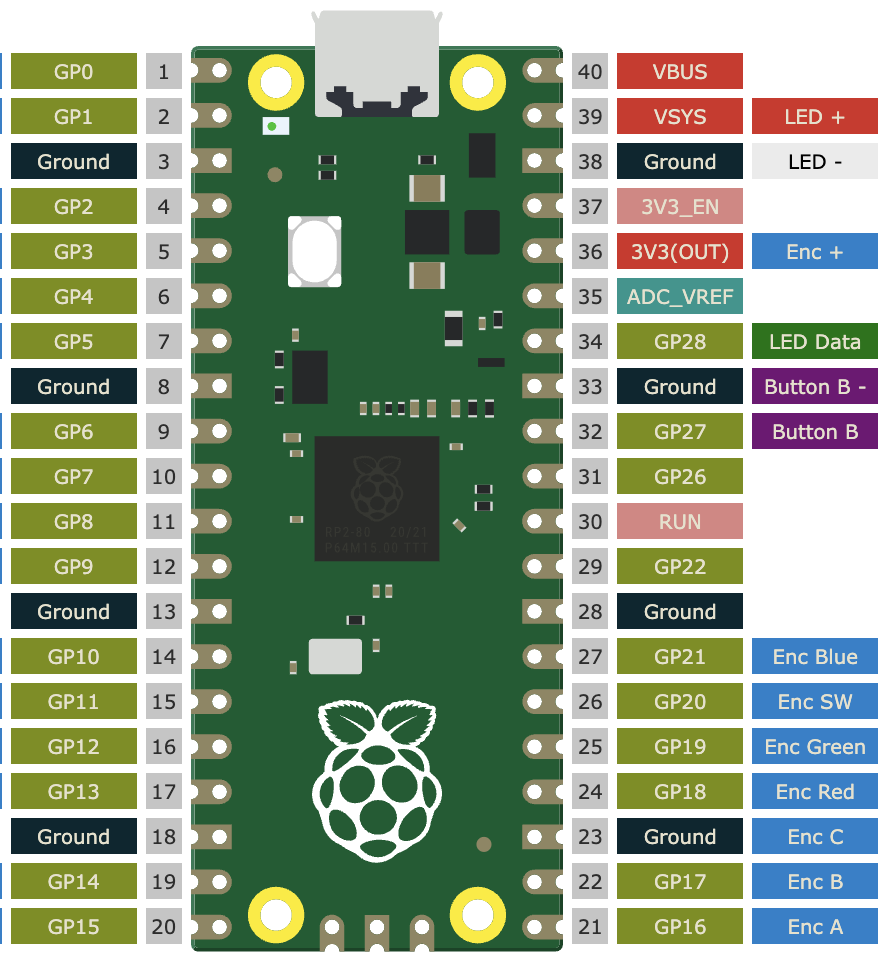
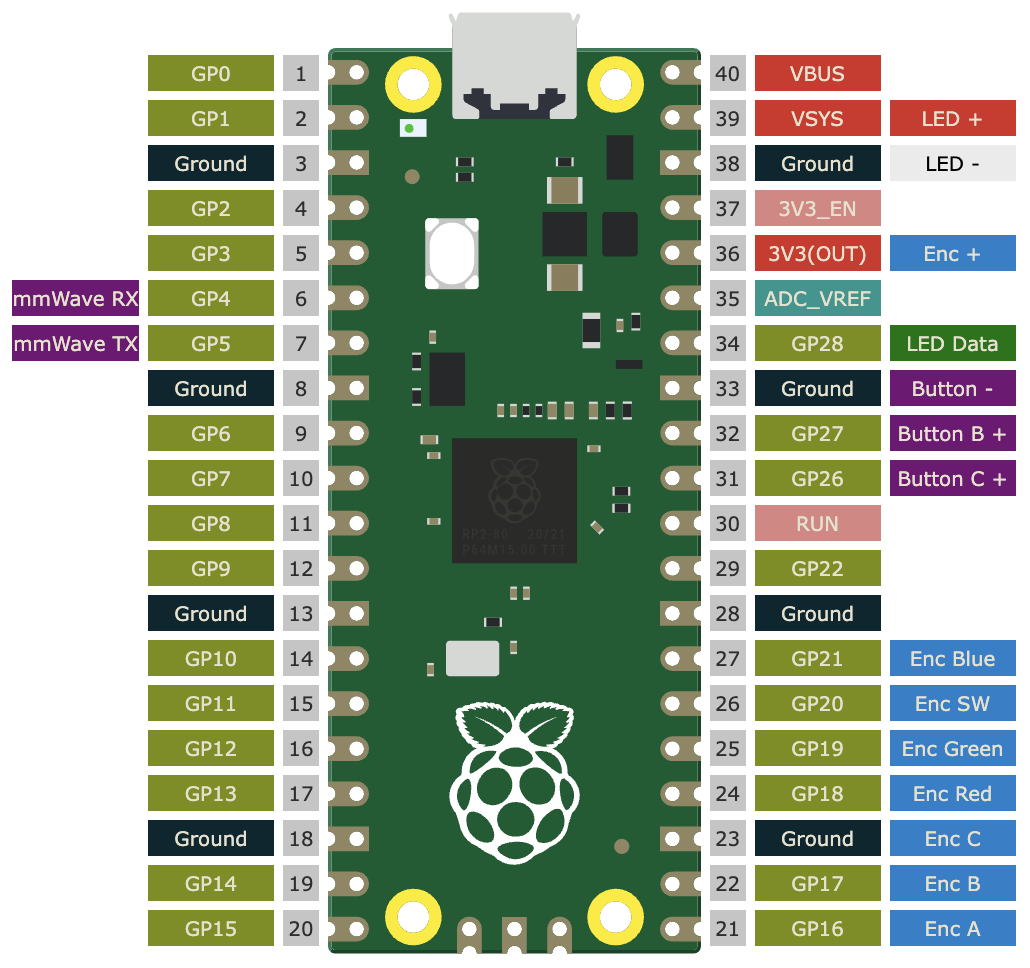
mmWave presence detection with UART

diff --git a/doc/_pinout.html b/doc/_pinout.html
@@ -1,26 +1,28 @@
 <!-- this is from pico.pinout.xyz and meant to generate updated pinouts later on. -->
 <article class="pinout hidden-spi hidden-uart hidden-adc hidden-pwm" id="pinout">
     <table aria-label="Left-hand pins" class="labels left" aria-rowcount="20" cellpadding="0" cellspacing="5">
-        <tbody><tr aria-label="First pin."><td class="gpio">GP0</td> <td class="spi hidden" title="SPI 0: Host-receive">SPI0 RX</td> <td class="i2c" title="I2C 0: Data">I2C0 SDA</td> <td class="uart default hidden" title="UART 0: Transmit">UART0 TX</td> <td class="pwm hidden advanced" title="PWM 0: Channel A">PWM0 A</td></tr>
-        <tr aria-label="Second pin."><td class="gpio">GP1</td> <td class="spi hidden" title="SPI 0: Chip-select">SPI0 CSn</td> <td class="i2c" title="I2C 0: Clock">I2C0 SCL</td> <td class="uart default hidden" title="UART 0: Receive">UART0 RX</td> <td class="pwm hidden advanced" title="PWM 0: Channel B">PWM0 B</td></tr>
+        <tbody><tr aria-label="First pin."><td class="gpio">GP0</td> <td class="spi hidden" title="SPI 0: Host-receive">SPI0 RX</td> <td class="i2c hidden" title="I2C 0: Data">I2C0 SDA</td> <td class="uart default hidden" title="UART 0: Transmit">UART0 TX</td> <td class="pwm hidden advanced" title="PWM 0: Channel A">PWM0 A</td></tr>
+        <tr aria-label="Second pin."><td class="gpio">GP1</td> <td class="spi hidden" title="SPI 0: Chip-select">SPI0 CSn</td> <td class="i2c hidden" title="I2C 0: Clock">I2C0 SCL</td> <td class="uart default hidden" title="UART 0: Receive">UART0 RX</td> <td class="pwm hidden advanced" title="PWM 0: Channel B">PWM0 B</td></tr>
         <tr aria-label="Third pin."><td class="ground" title="Ground">Ground</td></tr>
-        <tr aria-label="Forth pin."><td class="gpio">GP2</td> <td class="spi hidden" title="SPI 0: Clock">SPI0 SCK</td> <td class="i2c" title="I2C 1: Data">I2C1 SDA</td> <td class="uart hidden advanced" title="UART 0: Clear to send">UART0 CTS</td> <td class="pwm hidden advanced" title="PWM 1: Channel A">PWM1 A</td></tr>
-        <tr aria-label="Fifth pin."><td class="gpio">GP3</td> <td class="spi hidden" title="SPI 0: Host-transmit">SPI0 TX</td> <td class="i2c" title="I2C 1: Clock">I2C1 SCL</td> <td class="uart hidden advanced" title="UART 0: Request to send">UART0 RTS</td> <td class="pwm hidden advanced" title="PWM 1: Channel B">PWM1 B</td></tr>
-        <tr aria-label="Sixth pin."><td class="gpio">GP4</td> <td class="spi hidden" title="SPI 0: Host-receive">SPI0 RX</td> <td class="i2c" title="I2C 0: Data">I2C0 SDA</td> <td class="uart hidden" title="UART 1: Transmit">UART1 TX</td> <td class="pwm hidden advanced" title="PWM 2: Channel A">PWM2 A</td></tr>
-        <tr aria-label="Seventh pin."><td class="gpio">GP5</td> <td class="spi hidden" title="SPI 0: Chip-select">SPI0 CSn</td> <td class="i2c" title="I2C 0: Clock">I2C0 SCL</td> <td class="uart hidden" title="UART 1: Receive">UART1 RX</td> <td class="pwm hidden advanced" title="PWM 2: Channel B">PWM2 B</td></tr>
+        <tr aria-label="Forth pin."><td class="gpio">GP2</td> <td class="spi hidden" title="SPI 0: Clock">SPI0 SCK</td> <td class="i2c hidden" title="I2C 1: Data">I2C1 SDA</td> <td class="uart hidden advanced" title="UART 0: Clear to send">UART0 CTS</td> <td class="pwm hidden advanced" title="PWM 1: Channel A">PWM1 A</td></tr>
+        <tr aria-label="Fifth pin."><td class="gpio">GP3</td> <td class="spi hidden" title="SPI 0: Host-transmit">SPI0 TX</td> <td class="i2c hidden" title="I2C 1: Clock">I2C1 SCL</td> <td class="uart hidden advanced" title="UART 0: Request to send">UART0 RTS</td> <td class="pwm hidden advanced" title="PWM 1: Channel B">PWM1 B</td></tr>
+        <tr aria-label="Sixth pin."><td class="gpio">GP4</td> <td class="spi hidden" title="SPI 0: Host-receive">SPI0 RX</td> <td class="i2c" title="I2C 0: Data" style="
+    background-color: purple;
+">mmWave RX</td> <td class="uart hidden" title="UART 1: Transmit">UART1 TX</td> <td class="pwm hidden advanced" title="PWM 2: Channel A">PWM2 A</td></tr>
+        <tr aria-label="Seventh pin."><td class="gpio">GP5</td> <td class="spi hidden" title="SPI 0: Chip-select">SPI0 CSn</td> <td class="i2c" title="I2C 0: Clock" style="background-color:purple;">mmWave TX</td> <td class="uart hidden" title="UART 1: Receive">UART1 RX</td> <td class="pwm hidden advanced" title="PWM 2: Channel B">PWM2 B</td></tr>
         <tr aria-label="Eighth pin."><td class="ground" title="Ground">Ground</td></tr>
-        <tr aria-label="Ninth pin."><td class="gpio">GP6</td> <td class="spi hidden" title="SPI 0: Clock">SPI0 SCK</td> <td class="i2c" title="I2C 1: Data">I2C1 SDA</td> <td class="uart hidden advanced" title="UART 1: Clear to send">UART1 CTS</td> <td class="pwm hidden advanced" title="PWM 3: Channel A">PWM3 A</td></tr>
-        <tr aria-label="Tenth pin."><td class="gpio">GP7</td> <td class="spi hidden" title="SPI 1: Host-transmit">SPI0 TX</td> <td class="i2c" title="I2C 1: Clock">I2C1 SCL</td> <td class="uart hidden advanced" title="UART 1: Request to send">UART1 RTS</td> <td class="pwm hidden advanced" title="PWM 3: Channel B">PWM3 B</td></tr>
-        <tr aria-label="Eleventh pin."><td class="gpio">GP8</td> <td class="spi hidden" title="SPI 1: Host-receive">SPI1 RX</td> <td class="i2c" title="I2C 0: Data">I2C0 SDA</td> <td class="uart hidden" title="UART 1: Transmit">UART1 TX</td> <td class="pwm hidden advanced" title="PWM 4: Channel A">PWM4 A</td></tr>
-        <tr aria-label="Twelveth pin."><td class="gpio">GP9</td> <td class="spi hidden" title="SPI 1: Chip-select">SPI1 CSn</td> <td class="i2c" title="I2C 0: Clock">I2C0 SCL</td> <td class="uart hidden" title="UART 1: Receive">UART1 RX</td> <td class="pwm hidden advanced" title="PWM 4: Channel B">PWM4 B</td></tr>
+        <tr aria-label="Ninth pin."><td class="gpio">GP6</td> <td class="spi hidden" title="SPI 0: Clock">SPI0 SCK</td> <td class="i2c hidden" title="I2C 1: Data">I2C1 SDA</td> <td class="uart hidden advanced" title="UART 1: Clear to send">UART1 CTS</td> <td class="pwm hidden advanced" title="PWM 3: Channel A">PWM3 A</td></tr>
+        <tr aria-label="Tenth pin."><td class="gpio">GP7</td> <td class="spi hidden" title="SPI 1: Host-transmit">SPI0 TX</td> <td class="i2c hidden" title="I2C 1: Clock">I2C1 SCL</td> <td class="uart hidden advanced" title="UART 1: Request to send">UART1 RTS</td> <td class="pwm hidden advanced" title="PWM 3: Channel B">PWM3 B</td></tr>
+        <tr aria-label="Eleventh pin."><td class="gpio">GP8</td> <td class="spi hidden" title="SPI 1: Host-receive">SPI1 RX</td> <td class="i2c hidden" title="I2C 0: Data">I2C0 SDA</td> <td class="uart hidden" title="UART 1: Transmit">UART1 TX</td> <td class="pwm hidden advanced" title="PWM 4: Channel A">PWM4 A</td></tr>
+        <tr aria-label="Twelveth pin."><td class="gpio">GP9</td> <td class="spi hidden" title="SPI 1: Chip-select">SPI1 CSn</td> <td class="i2c hidden" title="I2C 0: Clock">I2C0 SCL</td> <td class="uart hidden" title="UART 1: Receive">UART1 RX</td> <td class="pwm hidden advanced" title="PWM 4: Channel B">PWM4 B</td></tr>
         <tr aria-label="Thirtheenth pin."><td class="ground" title="Ground">Ground</td></tr>
-        <tr aria-label="Fourteenth pin."><td class="gpio">GP10</td> <td class="spi hidden" title="SPI 1: Clock">SPI1 SCK</td> <td class="i2c" title="I2C 1: Data">I2C1 SDA</td> <td class="uart hidden advanced" title="UART 1: Clear to send">UART1 CTS</td> <td class="pwm hidden advanced" title="PWM 5: Channel A">PWM5 A</td></tr>
-        <tr aria-label="Fifteenth pin."><td class="gpio">GP11</td> <td class="spi hidden" title="SPI 1: Host-transmit">SPI1 TX</td> <td class="i2c" title="I2C 1: Clock">I2C1 SCL</td> <td class="uart hidden advanced" title="UART 1: Request to send">UART1 RTS</td>  <td class="pwm hidden advanced" title="PWM 5: Channel B">PWM5 B</td></tr>
-        <tr aria-label="Sixteenth pin."><td class="gpio">GP12</td> <td class="spi hidden" title="SPI 1: Host-receive">SPI1 RX</td> <td class="i2c" title="I2C 0: Data">I2C0 SDA</td> <td class="uart hidden" title="UART 0: Transmit">UART0 TX</td> <td class="pwm hidden advanced" title="PWM 6: Channel A">PWM6 A</td></tr>
-        <tr aria-label="Seventeenth pin."><td class="gpio">GP13</td> <td class="spi hidden" title="SPI 1: Chip-select">SPI1 CSn</td> <td class="i2c" title="I2C 0: Clock">I2C0 SCL</td> <td class="uart hidden" title="UART 0: Receive">UART0 RX</td> <td class="pwm hidden advanced" title="PWM 6: Channel B">PWM6 B</td></tr>
+        <tr aria-label="Fourteenth pin."><td class="gpio">GP10</td> <td class="spi hidden" title="SPI 1: Clock">SPI1 SCK</td> <td class="i2c hidden" title="I2C 1: Data">I2C1 SDA</td> <td class="uart hidden advanced" title="UART 1: Clear to send">UART1 CTS</td> <td class="pwm hidden advanced" title="PWM 5: Channel A">PWM5 A</td></tr>
+        <tr aria-label="Fifteenth pin."><td class="gpio">GP11</td> <td class="spi hidden" title="SPI 1: Host-transmit">SPI1 TX</td> <td class="i2c hidden" title="I2C 1: Clock">I2C1 SCL</td> <td class="uart hidden advanced" title="UART 1: Request to send">UART1 RTS</td>  <td class="pwm hidden advanced" title="PWM 5: Channel B">PWM5 B</td></tr>
+        <tr aria-label="Sixteenth pin."><td class="gpio">GP12</td> <td class="spi hidden" title="SPI 1: Host-receive">SPI1 RX</td> <td class="i2c hidden" title="I2C 0: Data">I2C0 SDA</td> <td class="uart hidden" title="UART 0: Transmit">UART0 TX</td> <td class="pwm hidden advanced" title="PWM 6: Channel A">PWM6 A</td></tr>
+        <tr aria-label="Seventeenth pin."><td class="gpio">GP13</td> <td class="spi hidden" title="SPI 1: Chip-select">SPI1 CSn</td> <td class="i2c hidden" title="I2C 0: Clock">I2C0 SCL</td> <td class="uart hidden" title="UART 0: Receive">UART0 RX</td> <td class="pwm hidden advanced" title="PWM 6: Channel B">PWM6 B</td></tr>
         <tr aria-label="Eighteenth pin."><td class="ground" title="Ground">Ground</td></tr>
-        <tr aria-label="Nineteenth pin."><td class="gpio">GP14</td> <td class="spi hidden" title="SPI 1: Clock">SPI1 SCK</td> <td class="i2c" title="I2C 0: Data">I2C1 SDA</td> <td class="uart hidden advanced" title="UART 0: Clear to send">UART0 CTS</td> <td class="pwm hidden advanced" title="PWM 7: Channel A">PWM7 A</td></tr>
-        <tr aria-label="Twentieth pin."><td class="gpio">GP15</td> <td class="spi hidden" title="SPI 1: Host-transmit">SPI1 TX</td> <td class="i2c" title="I2C 0: Clock">I2C1 SCL</td> <td class="uart hidden advanced" title="UART 0: Request to send">UART0 RTS</td> <td class="pwm hidden advanced" title="PWM 7: Channel B">PWM7 B</td></tr>
+        <tr aria-label="Nineteenth pin."><td class="gpio">GP14</td> <td class="spi hidden" title="SPI 1: Clock">SPI1 SCK</td> <td class="i2c hidden" title="I2C 0: Data">I2C1 SDA</td> <td class="uart hidden advanced" title="UART 0: Clear to send">UART0 CTS</td> <td class="pwm hidden advanced" title="PWM 7: Channel A">PWM7 A</td></tr>
+        <tr aria-label="Twentieth pin."><td class="gpio">GP15</td> <td class="spi hidden" title="SPI 1: Host-transmit">SPI1 TX</td> <td class="i2c hidden" title="I2C 0: Clock">I2C1 SCL</td> <td class="uart hidden advanced" title="UART 0: Request to send">UART0 RTS</td> <td class="pwm hidden advanced" title="PWM 7: Channel B">PWM7 B</td></tr>
         </tbody></table>
     <div class="pico" id="upside"><img width="207" height="523" alt="Raspberry Pi Pico with the micro USB port facing upwards, standing face-up on its GPIO pins." src="raspberry-pi-pico.svg"></div>
     <div class="pico" id="underside"><img width="207" height="523" alt="Raspberry Pi Pico with the micro USB port facing downwards, standing bottom-up on its GPIO pins." src="raspberry-pi-pico-underside.svg"></div>
@@ -43,11 +45,13 @@
         <tr aria-label="Seventh pin."><td class="gpio">GP28</td> <td class="adc hidden" title="ADC: Channel 2">ADC2</td> <td class="i2c" title="I2C 0: Data" style="background-color:green;">LED Data</td> <td class="uart hidden advanced" title="UART 0: Transmit">UART0 TX</td> <td class="pwm hidden advanced" title="PWM 6: Channel A">PWM6 A</td></tr>
         <tr aria-label="Eighth pin."><td class="ground" title="Ground">Ground</td> <td class="i2c" title="ADC: Ground" style="
     background-color: purple;
-">Button B -</td></tr>
+">Button -</td></tr>
         <tr aria-label="Ninth pin."><td class="gpio">GP27</td> <td class="adc hidden" title="ADC: Channel 1">ADC1</td> <td class="i2c" title="I2C 1: Clock" style="
     background-color: purple;
-">Button B</td> <td class="uart hidden advanced" title="UART 0: Clear to send">UART1 RTS</td> <td class="pwm hidden advanced" title="PWM 5: Channel B">PWM5 B</td></tr>
-        <tr aria-label="Tenth pin."><td class="gpio">GP26</td> <td class="adc hidden" title="ADC: Channel 0">ADC0</td> <td class="adc hidden" title="I2C 1: Data">I2C1 SDA</td> <td class="uart hidden advanced" title="UART 1: Clear to send">UART1 CTS</td> <td class="pwm hidden advanced" title="PWM 5: Channel A">PWM5 A</td></tr>
+">Button B +</td> <td class="uart hidden advanced" title="UART 0: Clear to send">UART1 RTS</td> <td class="pwm hidden advanced" title="PWM 5: Channel B">PWM5 B</td></tr>
+        <tr aria-label="Tenth pin."><td class="gpio">GP26</td> <td class="adc hidden" title="ADC: Channel 0">ADC0</td> <td class="i2c" title="I2C 1: Clock" style="
+    background-color: purple;
+">Button C +</td> <td class="uart hidden advanced" title="UART 1: Clear to send">UART1 CTS</td> <td class="pwm hidden advanced" title="PWM 5: Channel A">PWM5 A</td></tr>
         <tr aria-label="Eleventh pin."><td class="system">RUN</td></tr>
         <tr aria-label="Twelveth pin."><td class="gpio">GP22</td> <td class="spi hidden advanced" title="SPI 0: Clock">SPI0 SCK</td> <td class="i2c hidden" title="I2C 1: Data">Enc SW</td> <td class="uart hidden advanced" title="UART 1: Clear to send">UART1 CTS</td> <td class="pwm hidden advanced" title="PWM 3: Channel A">PWM3 A</td></tr>
         <tr aria-label="Thirtheenth pin."><td class="ground" title="Ground">Ground</td>

diff --git a/DFRobot_mmWave_Radar.cpp b/DFRobot_mmWave_Radar.cpp
@@ -1,0 +1,169 @@
+/*!
+   @file  DFRobot_mmWave_Radar.cpp
+   @brief  Implement the basic structure of class mmwave rader sensor-human presence detection 
+   @copyright  Copyright (c) 2010 DFRobot Co.Ltd (http://www.dfrobot.com)
+   @licence  The MIT License (MIT)
+   @author  huyujie(yujie.hu@dfrobot.com)
+   @version  V1.0
+   @date  2020-3-25
+   @get  from https://www.dfrobot.com
+   @url  https://github.com/DFRobot
+*/
+
+// Modified to suit Raspberry Pi Pico stdlib
+
+#include "DFRobot_mmWave_Radar.h"
+#include "pico/stdlib.h"
+#include <cstdio>
+#include <cstring>
+
+
+DFRobot_mmWave_Radar::DFRobot_mmWave_Radar(uart_inst_t *s)
+{
+  _s = s;
+}
+
+size_t DFRobot_mmWave_Radar::readN(uint8_t *buf, size_t len)
+{
+  size_t offset = 0, left = len;
+  const int32_t timeout = 1500;
+  uint8_t  *buffer = buf;
+  uint32_t curr = to_ms_since_boot(get_absolute_time());
+  while (left) {
+    if (uart_is_readable(_s)) {
+      buffer[offset] = uart_getc(_s);
+      offset++;
+      left--;
+    }
+    if (to_ms_since_boot(get_absolute_time()) - curr > timeout) {
+      break;
+    }
+  }
+  return offset;
+}
+
+bool DFRobot_mmWave_Radar::recdData(uint8_t *buf)
+{
+
+  uint32_t timeout = 50000;
+  long curr = to_ms_since_boot(get_absolute_time());
+  uint8_t ch;
+  bool ret = false;
+  while (!ret) {
+    if (to_ms_since_boot(get_absolute_time()) - curr > timeout) {
+      break;
+    }
+
+    if (readN(&ch, 1) == 1) {
+      if (ch == '$') {
+        buf[0] = ch;
+        if (readN(&ch, 1) == 1) {
+          if (ch == 'J') {
+            buf[1] = ch;
+            if (readN(&ch, 1) == 1) {
+              if (ch == 'Y') {
+                buf[2] = ch;
+                if (readN(&ch, 1) == 1) {
+                  if (ch == 'B') {
+                    buf[3] = ch;
+                    if (readN(&ch, 1) == 1) {
+                      if (ch == 'S') {
+                        buf[4] = ch;
+                        if (readN(&ch, 1) == 1) {
+                          if (ch == 'S') {
+                            buf[5] = ch;
+                            if (readN(&buf[6], 9) == 9) {
+                              ret = true;
+                            }
+                          }
+                        }
+                      }
+                    }
+                  }
+                }
+              }
+            }
+          }
+        }
+      }
+    }
+  }
+  return ret;
+}
+
+
+bool DFRobot_mmWave_Radar::readPresenceDetection(void)
+{
+  uint8_t dat[15] = {0};
+  
+  bool ret;
+  if (recdData(dat)) {
+    if (dat[7] == '1') {
+      ret = true;
+    } else {
+      if (dat[7] == '0') {
+        ret = false;
+      }
+    }
+  } else {
+    while (1);
+  }
+  return ret;
+}
+
+
+void DFRobot_mmWave_Radar::DetRangeCfg(float parA_s, float parA_e)
+{
+  char comDetRangeCfg[22] = {0};
+  int16_t parA_S = parA_s / 0.15;
+  int16_t parA_E = parA_e / 0.15;
+  sprintf(comDetRangeCfg, "detRangeCfg -1 %d %d", parA_S, parA_E);
+
+  uart_write_blocking(_s, (uint8_t*)comStop, strlen(comStop));
+  sleep_ms(comDelay);
+
+  uart_write_blocking(_s, (uint8_t*)comDetRangeCfg, strlen(comDetRangeCfg));
+  sleep_ms(comDelay);
+
+  uart_write_blocking(_s, (uint8_t*)comSaveCfg, strlen(comSaveCfg));
+  sleep_ms(comDelay);
+
+  uart_write_blocking(_s, (uint8_t*)comStart, strlen(comStart));
+  sleep_ms(comDelay);
+}
+
+void DFRobot_mmWave_Radar::OutputLatency(float par1, float par2)
+{
+
+  char comOutputLatency[28] = {0};
+  int16_t Par1 = par1 * 1000 / 25;
+  int16_t Par2 = par2 * 1000 / 25;
+  sprintf(comOutputLatency, "outputLatency -1 %d %d", Par1 , Par2);
+
+  uart_write_blocking(_s, (uint8_t*)comStop, strlen(comStop));
+  sleep_ms(comDelay);
+
+  uart_write_blocking(_s, (uint8_t*)comOutputLatency, strlen(comOutputLatency));
+  sleep_ms(comDelay);
+
+  uart_write_blocking(_s, (uint8_t*)comSaveCfg, strlen(comSaveCfg));
+  sleep_ms(comDelay);
+
+  uart_write_blocking(_s, (uint8_t*)comStart, strlen(comStart));
+  sleep_ms(comDelay);
+}
+
+void DFRobot_mmWave_Radar::factoryReset(void)
+{
+  uart_write_blocking(_s, (uint8_t*)comStop, strlen(comStop));
+  sleep_ms(comDelay);
+
+  uart_write_blocking(_s, (uint8_t*)comFactoryReset, strlen(comFactoryReset));
+  sleep_ms(comDelay);
+
+  uart_write_blocking(_s, (uint8_t*)comSaveCfg, strlen(comSaveCfg));
+  sleep_ms(comDelay);
+
+  uart_write_blocking(_s, (uint8_t*)comStart, strlen(comStart));
+  sleep_ms(comDelay);
+}

diff --git a/DFRobot_mmWave_Radar.h b/DFRobot_mmWave_Radar.h
@@ -1,0 +1,43 @@
+/*!
+   @file  DFRobot_mmWave_Radar.h
+   @brief  Define the basic structure of class mmWave radar sensor-human presence detection 
+   @copyright  Copyright (c) 2010 DFRobot Co.Ltd (http://www.dfrobot.com)
+   @licence  The MIT License (MIT)
+   @author  huyujie(yujie.hu@dfrobot.com)
+   @version  V1.0
+   @date  2020-2-25
+   @get  from https://www.dfrobot.com
+   @url  https://github.com/DFRobot
+*/
+
+// Modified to suit Raspberry Pi Pico stdlib
+
+#ifndef __DFRobot_mmWave_Radar_H__
+#define __DFRobot_mmWave_Radar_H__
+
+#include "hardware/uart.h"
+
+class DFRobot_mmWave_Radar
+{
+  public:
+    DFRobot_mmWave_Radar(uart_inst_t *s);
+    void DetRangeCfg(float parA_s, float parA_e);
+    bool readPresenceDetection(void);
+    void OutputLatency(float par1, float par2);
+    void factoryReset();
+
+  private:
+
+    size_t readN(uint8_t *buf, size_t len);
+    bool recdData(uint8_t *buf);
+
+    const uint comDelay = 1000; //Command sending interval (The test states that the interval between two commands must be larger than 1000ms)
+
+    uart_inst_t *_s;
+    const char *comStop = "sensorStop";     //Sensor stop command. Stop the sensor when it is still running
+    const char *comStart = "sensorStart";     //Sensor start command. When the sensor is not started and there are no set parameters to save, start the sensor to run
+    const char *comSaveCfg = "saveCfg 0x45670123 0xCDEF89AB 0x956128C6 0xDF54AC89";     //Parameter save command. When the sensor parameter is reconfigured via serialport but no tsaved, use this command to save the new configuration into sensor Flash
+    const char *comFactoryReset = "factoryReset 0x45670123 0xCDEF89AB 0x956128C6 0xDF54AC89";     //Factory settings restore command. Restore the sensor to the factory default settings
+};
+
+#endif

diff --git a/presence.cpp b/presence.cpp
@@ -1,28 +1,50 @@
 #include "presence.h"
 #include <cstdio>
 #include "hardware/gpio.h"
+#include "hardware/uart.h"
+#include "config.h"
 
 Presence::Presence() {
 }
 
-void Presence::init(uint p_pin, bool p_active_low) {
-  pin = p_pin;
-  pin_active_low = p_active_low;
+void Presence::init(uint p_pin, bool p_active_low, uint p_uart_id, uint p_tx_pin, uint p_rx_pin) {
+  if (p_tx_pin == 0 || p_rx_pin == 0) {
+    pin = p_pin;
+    pin_active_low = p_active_low;
 
-  gpio_init(pin);
-  gpio_set_dir(pin, GPIO_IN);
-  if (pin_active_low) {
-    gpio_pull_up(pin);
-  } else {
-    gpio_pull_down(pin);
+    gpio_init(pin);
+    gpio_set_dir(pin, GPIO_IN);
+    if (pin_active_low) {
+      gpio_pull_up(pin);
+    } else {
+      gpio_pull_down(pin);
+    }
+    return;
   }
+
+  auto u = uart_get_instance(p_uart_id);
+  uart_init(u, 115200);
+  gpio_set_function(p_tx_pin, GPIO_FUNC_UART);
+  gpio_set_function(p_rx_pin, GPIO_FUNC_UART);
+  uart_enabled = true;
+
+  sns = new DFRobot_mmWave_Radar(u);
+  sns->factoryReset();
+  sns->DetRangeCfg(0, PRESENCE_RANGE_METERS);
+  sns->OutputLatency(0, 0);
 }
 
 bool Presence::is_present() {
   static bool last_val = false;
 
-  bool val = gpio_get(pin);
-  if (pin_active_low) val = !val;
+  bool val;
+
+  if (uart_enabled) {
+    val = sns->readPresenceDetection();
+  } else {
+    val = gpio_get(pin);
+    if (pin_active_low) val = !val;
+  }
 
   if (val != last_val) {
         printf("[presence] %s\n", val ? "present" : "absent");

diff --git a/config.h b/config.h
@@ -63,8 +63,13 @@ const uint BUTTON_C_PIN = 26;
 
 const bool PRESENCE_ENABLED = false;
 //const bool PRESENCE_ENABLED = true;
+const bool PRESENCE_PIN_ENABLED = false;
 const uint PRESENCE_PIN = 22;
-const bool PRESENCE_ACTIVE_LOW = false;
+const bool PRESENCE_PIN_ACTIVE_LOW = false;
+const uint PRESENCE_UART_ID = 1;
+const uint PRESENCE_UART_RX_PIN = 4; // set these pins to 0 to disable UART
+const uint PRESENCE_UART_TX_PIN = 5;
+const uint PRESENCE_RANGE_METERS = 2; // only available if uart is enabled
 const uint16_t PRESENCE_CHECK_INTERVAL = 1000; // ms
 
 const uint16_t FADE_IN_DURATION = 1000; // ms

diff --git a/presence.h b/presence.h
@@ -3,15 +3,18 @@
 
 #include <cstdio>
 #include <cstdint>
+#include "DFRobot_mmWave_Radar.h"
 
 class Presence {
 private:
     uint pin;
     bool pin_active_low;
+    bool uart_enabled;
+    DFRobot_mmWave_Radar *sns;
 
 public:
     Presence();
-    void init(uint p_pin, bool p_active_low = true);
+    void init(uint p_pin, bool p_active_low, uint p_uart_id, uint p_tx_pin, uint p_rx_pin);
     bool is_present();
 };
 

diff --git a/main.cpp b/main.cpp
@@ -227,7 +227,7 @@ int main() {
     board_led(false);
   }
 
-  if (PRESENCE_ENABLED) presence.init(PRESENCE_PIN, PRESENCE_ACTIVE_LOW);
+  if (PRESENCE_ENABLED) presence.init(PRESENCE_PIN, PRESENCE_PIN_ACTIVE_LOW, PRESENCE_UART_ID, PRESENCE_UART_TX_PIN, PRESENCE_UART_RX_PIN);
 
   leds = new ledcontrol::LEDControl();
   leds->init(&encoder);

diff --git a/README.md b/README.md
@@ -22,6 +22,7 @@ Simple LED Control project for Raspberry Pi Pico and Pico W with MQTT (and Home 
 - Optional: An extra button (button "B") if you want to load/save your colour schemes.
 - Optional: Another extra button (let's call this "C") if you want an instant on/off button.
 - Optional: [Captain Resetti](https://shop.pimoroni.com/products/captain-resetti-pico-reset-button) to return to default colours, or just replug the board.
+- Optional: [DFRobot mmWave Radar](https://shop.pimoroni.com/products/mmwave-radar-human-presence-detection-9m) to turn on/off the lights when you enter/leave the room.
 - Read [the uberguide](https://learn.adafruit.com/adafruit-neopixel-uberguide) if you haven't...
 
 ### Connections
@@ -36,6 +37,9 @@ Only a single (right) side of the Pico is used for connections to allow for crea
   - SW to `GP20`
 - Optional: Button "B" to `GP27`. Connect the other end of the button to any `GND` pin.
 - Optional: Button "C" to `GP26`. Connect the other end of the button to any `GND` pin.
+- Optional: mmWave Radar TX to `GP5`, RX to `GP4`. Connect `G` to any `GND` pin and `V` to power (Pin 36).
+
+To use another/custom way of detecting presence, see `PRESENCE_PIN` in `config.h`.
 
 Pinout diagram is [here](./doc/pinout.png) or [from the back](./doc/pinout-back.png) (courtesy of [pinout.xyz](https://pico.pinout.xyz/))
 
